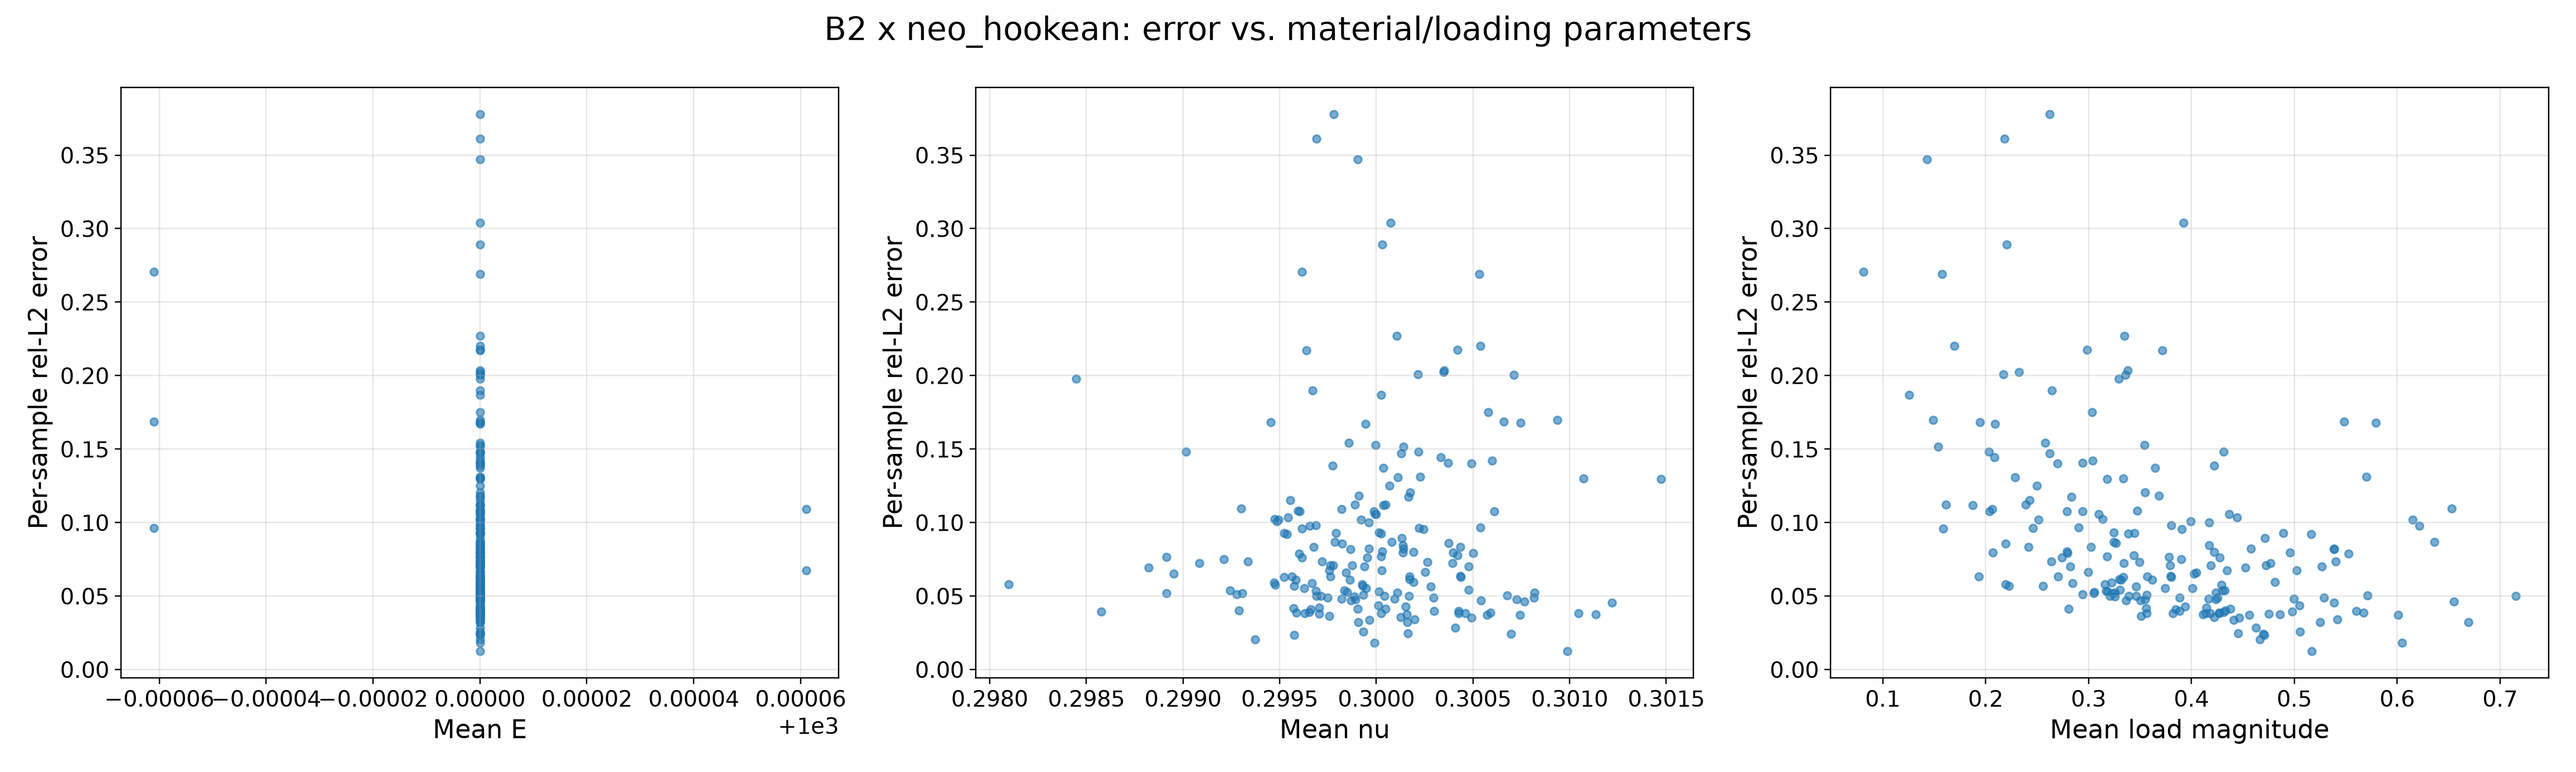
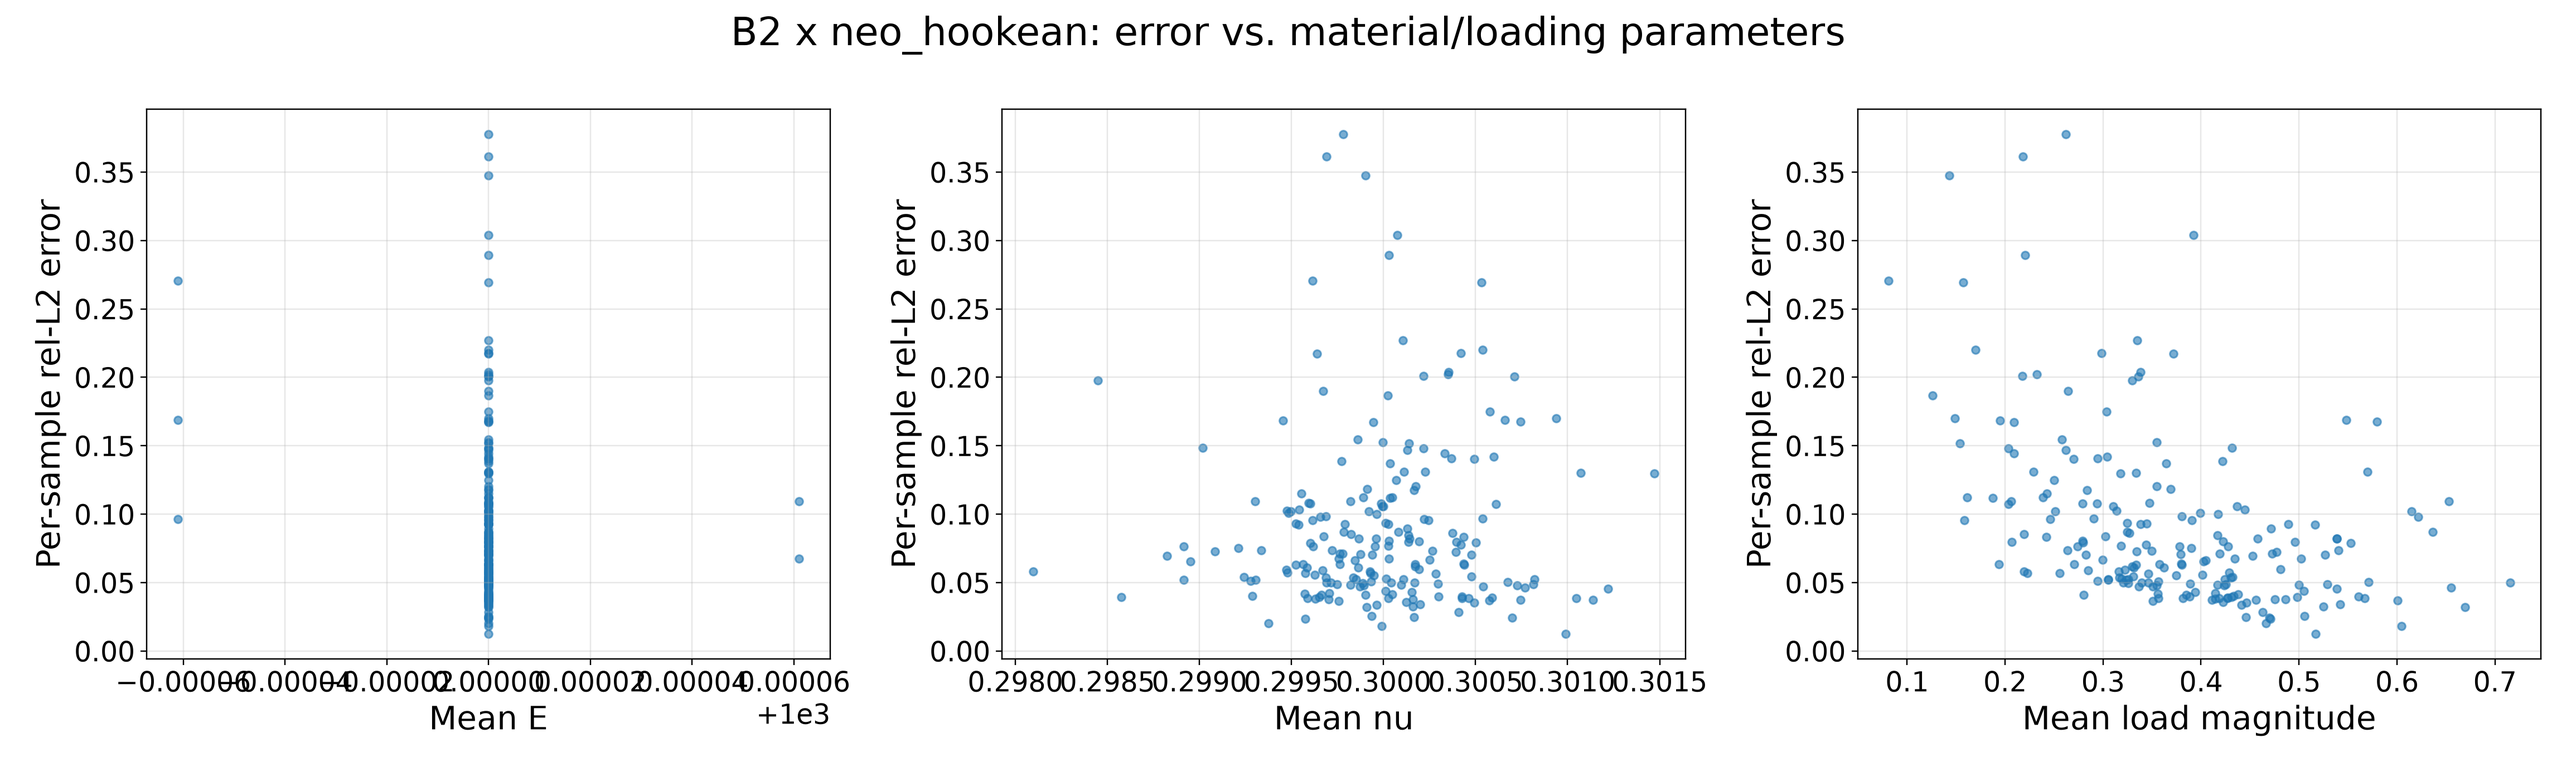
Address Timon's final review round: title change, text/table overlap fixes, sentence rewording, second affiliation, larger Figure 8 fonts
1. Title: removed "Physics-Informed" (DD now outperforms PI for B1,
   per the GPU-based cost comparison) -> "Accuracy- and
   Hardware-Matched Comparison of GPU-Native Finite Element Solvers
   and Neural Operators for Hyperelasticity".

2. Added Timon's second affiliation: Institute of CMxAI, Fudan
   University, Shanghai, China.

3. Reworded the MMS-section sentence per Timon's exact requested
   phrasing: "neural operators carry no analogue of the a priori
   convergence guarantees finite elements provide" -> "this trained
   Transolver has no FEM-like mesh-refinement convergence guarantee".

4. Fixed two real overlap defects Timon pointed at (pages 21/22, Table
   24 on page 25):
   - Figure 26 (image25.png, operator-vs-FEM accuracy/speed-up):
     regenerated from make_figure_operator_vs_fem.py with its
     default 'best'-location legend moved below each axes --
     it had been sitting directly on top of the B2 panel's data
     curves. Also fixed a real bug while there: the script's own
     OUT path was relative to cwd, silently saving into a doubly
     nested report_builders/report_builders/ directory when run from
     inside report_builders/ itself; now copied to the correct
     location and verified by diff against the actually-embedded file.
   - A genuinely overfull text line in the PI-vs-DD section (the
     unbreakable "data-driven+AdamW+OneCycleLR" compound) was bleeding
     into the adjacent column, overlapping "Section 7.5" from the
[…]

diff --git a/paper/main.tex b/paper/main.tex
@@ -17,15 +17,16 @@
 
 \begin{frontmatter}
 
-\title{Accuracy- and Hardware-Matched Comparison of GPU-Native Finite Element Solvers and Physics-Informed Neural Operators for Hyperelasticity}
+\title{Accuracy- and Hardware-Matched Comparison of GPU-Native Finite Element Solvers and Neural Operators for Hyperelasticity}
 
 %% TODO: confirm author list and order with Suhib/Timon before submission.
 \author[rub]{Suhib Amro\corref{cor1}}
 \cortext[cor1]{Corresponding author.}
 \ead{suhib.amro@uni-weimar.de}
-\author[rub]{Timon Rabczuk}
+\author[rub,fudan]{Timon Rabczuk}
 \ead{timon.rabczuk@uni-weimar.de}
 \address[rub]{Chair of Computational Mechanics, Bauhaus-Universit\"at Weimar}
+\address[fudan]{Institute of CMxAI, Fudan University, Shanghai, China}
 
 \begin{abstract}
 We train a physics-informed neural operator (Transolver) to predict the
@@ -2040,10 +2041,11 @@ above, the corresponding physics-informed wall-clock in both pairings
 ($2{,}873.8$~s and $3{,}108.9$~s respectively; physics-informed's own
 wall-clock already is its total pre-inference cost, since it pays no
 separate label-generation step). Comparing each loss's own best
-configuration, as above: data-driven+AdamW+OneCycleLR reaches both a
-lower validation error ($8.26\%$ vs.\ $9.59\%$) and a lower total
-pre-inference cost ($1{,}747.0$~s vs.\ $2{,}873.8$~s, $1.64\times$ less)
-than physics-informed+Adam -- the data-driven route wins on accuracy and
+configuration, as above: the data-driven model, trained with AdamW and a
+one-cycle schedule, reaches both a lower validation error ($8.26\%$
+vs.\ $9.59\%$) and a lower total pre-inference cost ($1{,}747.0$~s
+vs.\ $2{,}873.8$~s, $1.64\times$ less) than the physics-informed model
+trained with plain Adam -- the data-driven route wins on accuracy and
 speed simultaneously once its label-generation step is costed on the same
 GPU-native hardware the rest of this study's break-even figures already
 use, not on the slower CPU reference pipeline the labels were actually
@@ -2186,10 +2188,11 @@ was outside what this ablation specifically asked for.
   stress are reported only for hybrid and Sobolev (see text); n/a for
   the two pure-loss rows, not a missing value.}
 \label{tab:hybrid-sobolev}
-\small
-\begin{tabular}{lccccc}
+\footnotesize
+\setlength{\tabcolsep}{3pt}
+\begin{tabular}{lcccc}
 \toprule
-Loss & Val.\ error & $H^1$ & Stress & Wall-clock (s) \\
+Loss & Val.\ error & $H^1$ & Stress & Wall-clk (s) \\
 \midrule
 Physics-informed          & $9.59\%$  & n/a & n/a & $2{,}873.8$ \\
 Hybrid (phys.\ wt.\ 0.5)   & $12.75\%$ & $25.07\%$ & $21.69\%$ & $2{,}460.9$ \\
@@ -2288,9 +2291,9 @@ integration grid underneath a fixed-capacity network whose own
 optimization gap does not shrink with it, which is exactly the
 mechanism identified above. The two negative-sloping numbers are
 therefore not a convergence rate in the finite-element sense and are not
-directly comparable to Q4/Q9's own rates, and, more generally, neural
-operators carry no analogue of the a priori convergence guarantees finite
-elements provide. A further, practical consequence of this same
+directly comparable to Q4/Q9's own rates, and, more generally, this
+trained Transolver has no FEM-like mesh-refinement convergence
+guarantee. A further, practical consequence of this same
 mechanism is that there is no simple rule that a finer integration $N$ is
 always better for a trained operator: the family-mean results above show
 $L^2$ and energy getting \emph{worse} from $N{=}9$ to $N{=}33$ at fixed

diff --git a/Practical_Examples/report_builders/make_figure_operator_vs_fem.py b/Practical_Examples/report_builders/make_figure_operator_vs_fem.py
@@ -44,7 +44,7 @@ for label, geometry, material in CASES:
     rows = sorted(get_rows(tmap[label]), key=lambda r: int(r['N']))
     data[(geometry, material)] = rows
 
-fig, axes = plt.subplots(1, 3, figsize=(15.5, 4.6), dpi=200)
+fig, axes = plt.subplots(1, 3, figsize=(15.5, 5.6), dpi=200)
 
 for ax, geometry in zip(axes[:2], ('B1', 'B2')):
     for material, color in MATERIAL_COLOR.items():
@@ -59,7 +59,12 @@ for ax, geometry in zip(axes[:2], ('B1', 'B2')):
     ax.set_xlabel('N')
     ax.set_ylabel('Relative L2 error (%)')
     ax.set_title(f'{geometry}: FEM vs. operator accuracy')
-    ax.legend(frameon=False, fontsize=12, ncol=1)
+    # Timon caught the default 'best'-location legend sitting directly on
+    # top of the B2 curves (overlapping lines/markers) -- anchored below
+    # the axes instead, which is guaranteed clear of the data regardless
+    # of where the curves happen to sit.
+    ax.legend(frameon=False, fontsize=10, ncol=2, loc='upper center',
+               bbox_to_anchor=(0.5, -0.18))
     ax.grid(True, which='both', alpha=0.25)
 
 ax = axes[2]
@@ -77,7 +82,7 @@ ax.legend(frameon=False, fontsize=12, ncol=1)
 ax.grid(True, which='both', alpha=0.25)
 
 fig.suptitle('Operator vs. FEM: accuracy and cost across mesh resolutions', fontsize=16)
-fig.tight_layout(rect=[0, 0, 1, 0.93])
+fig.tight_layout(rect=[0, 0.1, 1, 0.93])
 
 out_path = os.path.join(OUT, 'fig_operator_vs_fem.png')
 fig.savefig(out_path)

diff --git a/Practical_Examples/omar_pfem/accuracy_diagnostics.py b/Practical_Examples/omar_pfem/accuracy_diagnostics.py
@@ -273,14 +273,17 @@ def _make_plots(args, per_sample, worst, uv_pred_all, Test_samples, xy):
     # printed page's width each (Figure 8, two per row in the paper), so
     # the default matplotlib font sizes used here are unreadable once
     # downscaled -- bumped explicitly, matching the sizing already used
-    # for every other report_builders figure in this project.
+    # for every other report_builders figure in this project. Bumped a
+    # second time (2026-10-16) after Timon's own direct request to
+    # increase the left-column (error-vs-parameters) scatter plots
+    # further, on top of the earlier bump.
     matplotlib.rcParams.update({
-        'font.size': 15,
-        'axes.titlesize': 17,
-        'axes.labelsize': 15,
-        'xtick.labelsize': 13,
-        'ytick.labelsize': 13,
-        'legend.fontsize': 13,
+        'font.size': 19,
+        'axes.titlesize': 21,
+        'axes.labelsize': 19,
+        'xtick.labelsize': 16,
+        'ytick.labelsize': 16,
+        'legend.fontsize': 16,
     })
 
     errs = np.array([r["rel_l2_error"] for r in per_sample])
